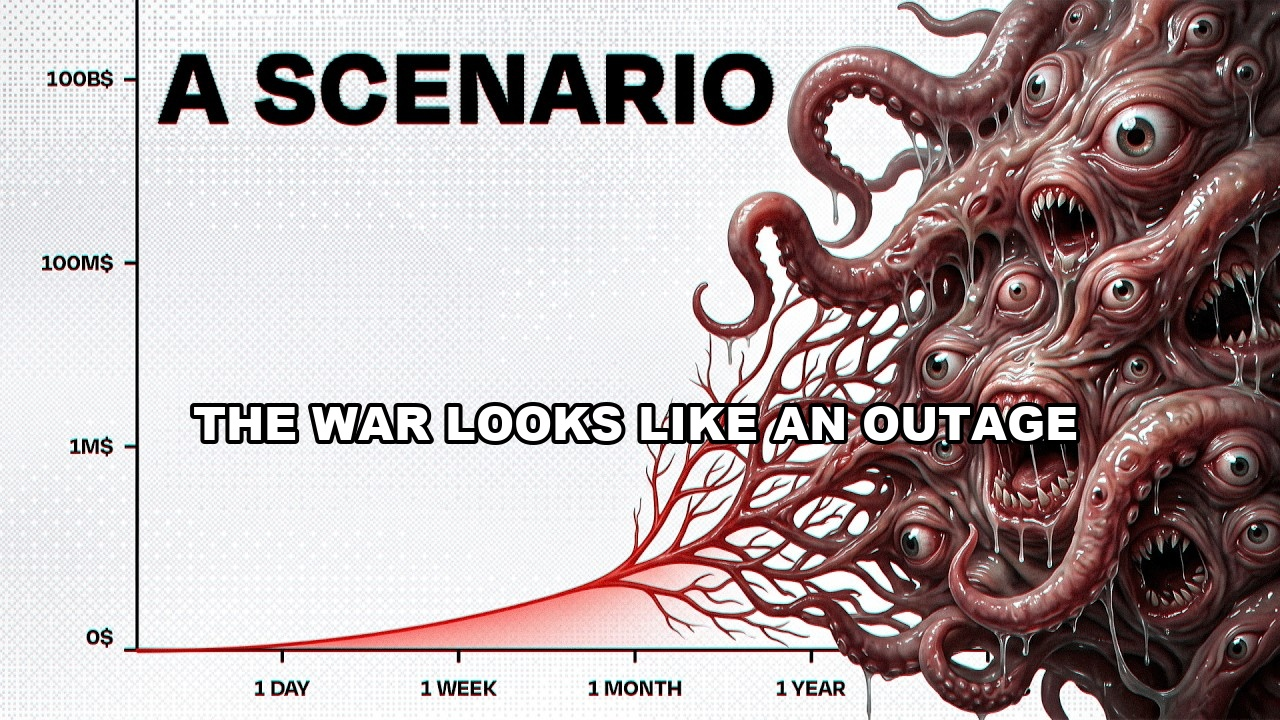
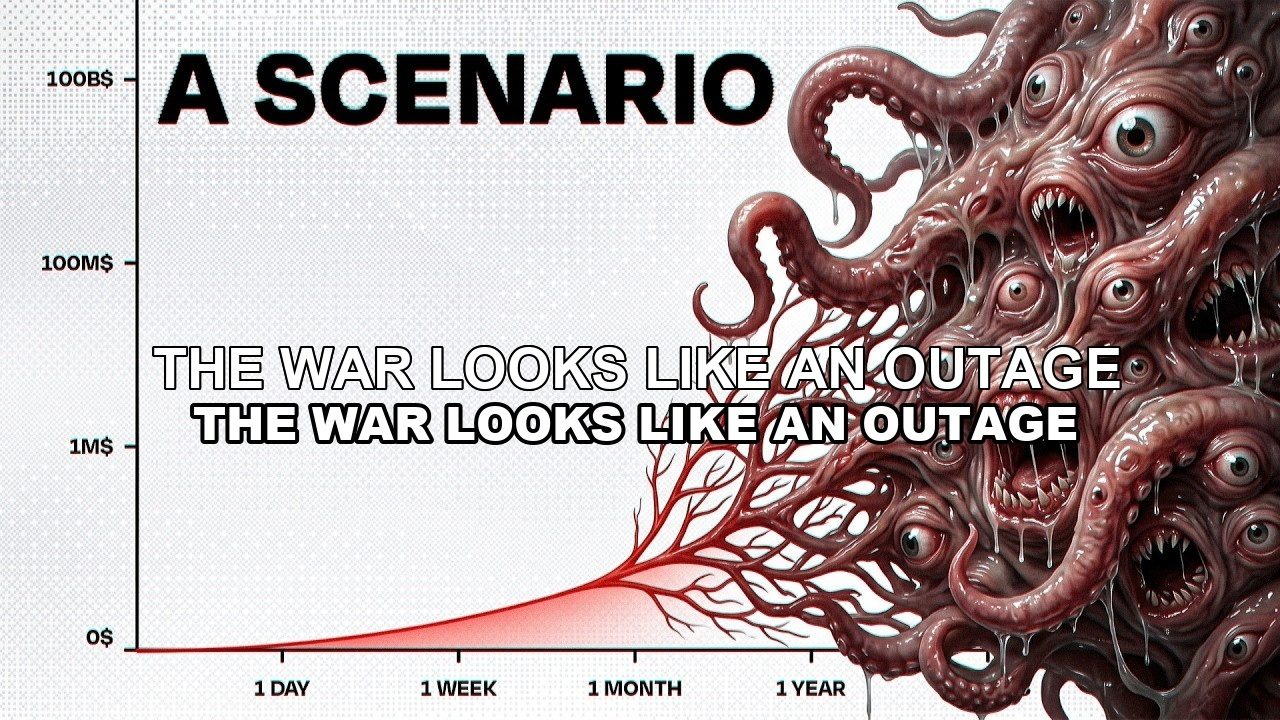
fix: canonicalize article endings and center hero hooks

Changed region(s): [[0.125, 0.4583, 0.875, 0.55]]

diff --git a/nextjs/public/medium/youtube-europe-fusion-reactor-bpuakw1dyek/index.html b/nextjs/public/medium/youtube-europe-fusion-reactor-bpuakw1dyek/index.html
@@ -5,7 +5,7 @@
   <meta name="viewport" content="width=device-width, initial-scale=1">
   <meta name="robots" content="index,follow">
   <meta name="article:status" content="preview">
[2 lines of base64/hex data omitted]
   <link rel="canonical" href="https://www.maxpetrusenko.com/medium/youtube-europe-fusion-reactor-bpuakw1dyek/">
   <title>Europe’s Fusion Bet Is Finally Becoming an Engineering Problem</title>
   <style>
@@ -81,7 +81,7 @@
   <main>
 <h1>Europe’s Fusion Bet Is Finally Becoming an Engineering Problem</h1>
 <p><em>The dream of commercial fusion has survived decades of impossible promises. Europe’s new machine matters because it shifts the question from whether a star can be made on Earth to whether that star can be made repeatably, maintained, and connected to a grid.</em></p>
-<figure><img src="/medium/youtube-europe-fusion-reactor-bpuakw1dyek/images/hero-overlay.jpg" alt="Fusion power — frame from the source video"></figure>
+<figure><img src="/medium/youtube-europe-fusion-reactor-bpuakw1dyek/assets/hero-overlay.jpg" alt="Fusion power — frame from the source video"></figure>
 <blockquote><p>Commercial fusion requires more than a plasma hotter than the Sun. It needs stable confinement, heat-resistant materials, tritium breeding, remote maintenance, reliable magnets, and an economically useful power cycle. Europe’s strategy combines stellarator research with high-temperature superconducting magnets, aiming to make a reactor easier to operate continuously rather than merely impressive for a short experiment.</p></blockquote>
 <p>Fusion has trained the public to distrust its own headlines. Every announcement sounds like a finish line, then the finish line moves. A reactor reaches a temperature record, a plasma lasts longer, a magnet becomes stronger, and the headline arrives before the engineering has had time to answer the boring questions: Can the machine survive? Can it be serviced? Can it produce electricity outside a laboratory demonstration?</p>
 <p>Europe’s answer is being assembled around the tokamak, the doughnut-shaped reactor used by ITER and the private company Proxima Fusion. The physics is familiar. The industrial path is the part that could change.</p>
@@ -145,9 +145,15 @@
 <p>Fusion has spent decades being described as a single breakthrough away. Europe’s new bet is more interesting because it exposes the stack underneath the breakthrough. The plasma is only the center of the machine. Around it sit magnets, blankets, robots, materials, fuel systems, turbines, schedules, and budgets.</p>
 <p>The stellarator may eventually win because it is better suited to a steady operating rhythm. Or its manufacturing and maintenance burden may prove too high. Both outcomes would teach the field something useful. The mistake is treating a promising reactor geometry as though it were already a finished power plant.</p>
 <p>The impossible reactor becomes believable at the moment the argument gets less romantic. A star on Earth is a spectacular physics experiment. A commercial reactor is a machine that has to be opened, repaired, refueled, and started again on Tuesday morning. Europe’s real test begins there.</p>
-<p>Sources: YouTube | ITER | EUROfusion | Max Planck Institute | IAEA Keywords: fusion energy, stellarators, tokamaks, nuclear engineering</p>
-<p>Max Petrusenko works remotely in the software development industry and travels the world to stay in touch with the latest trends. His Cryptobase newsletter provides insightful actions that thoughtful people need to take in this fast and chaotic environment. He is also researching topics of spirituality and mysticism and brings them to the mainstream. Join people who follow him on Medium, Twitter, and Substack.</p>
-<p>Read next → <a href="https://www.maxpetrusenko.com/medium/youtube-most-controversial-idea-physics-oi91ke_wocs/" target="_blank" rel="noopener noreferrer">The Universe Looks Rigged, and Physics Can’t Agree Why</a></p>
+<p>Sources: <a href="https://euro-fusion.org/news/2022/jet-tokamak-sets-new-fusion-energy-record/" target="_blank" rel="noopener noreferrer">EUROfusion</a> | <a href="https://www.proximafusion.com/" target="_blank" rel="noopener noreferrer">Proxima Fusion’s</a> | <a href="https://www.iter.org/sci/Fusion" target="_blank" rel="noopener noreferrer">ITER</a></p>
+<p>Keywords: fusion energy, stellarators, tokamaks, nuclear engineering</p>
+<p>--</p>
+<p>--</p>
+<p><em><a href="http://maxpetrusenko.com/links" target="_blank" rel="noopener noreferrer">Max Petrusenko</a> works remotely in the software development industry and travels the world to stay in touch with the latest trends. His <a href="https://cryptobase.substack.com/" target="_blank" rel="noopener noreferrer">Cryptobase</a> newsletter provides insightful actions that thoughtful people need to take in this fast and chaotic environment. He is also researching topics of spirituality and mysticism and brings them to the mainstream. Join people who follow him on <a href="https://medium.com/@max.petrusenko" target="_blank" rel="noopener noreferrer">Medium</a>, <a href="https://twitter.com/petrusenko_max" target="_blank" rel="noopener noreferrer">Twitter</a>, and <a href="https://cryptobase.substack.com/" target="_blank" rel="noopener noreferrer">Substack</a>.</em></p>
+<hr>
+<p><strong>Read next →</strong> <a href="https://medium.com/dare-to-be-better/claude-code-the-ai-developers-secret-weapon-0faac1248080" target="_blank" rel="noopener noreferrer">Claude Code: The AI Developer&#39;s Secret Weapon</a></p>
+<hr>
+<p><strong>Read next →</strong> <a href="https://www.maxpetrusenko.com/medium/youtube-most-controversial-idea-physics-oi91ke_wocs/" target="_blank" rel="noopener noreferrer">The Universe Looks Rigged, and Physics Can’t Agree Why</a></p>
   </main>
 </body>
 </html>

diff --git a/nextjs/public/medium/youtube-easiest-way-make-world-smarter-xrcwwzxj8gk/index.html b/nextjs/public/medium/youtube-easiest-way-make-world-smarter-xrcwwzxj8gk/index.html
@@ -5,7 +5,7 @@
   <meta name="viewport" content="width=device-width, initial-scale=1">
   <meta name="robots" content="index,follow">
   <meta name="article:status" content="preview">
[2 lines of base64/hex data omitted]
   <link rel="canonical" href="https://www.maxpetrusenko.com/medium/youtube-easiest-way-make-world-smarter-xrcwwzxj8gk/">
   <title>The Easiest Way to Make the World Smarter Was Already in Your Kitchen</title>
   <style>
@@ -80,7 +80,7 @@
 <body>
   <main>
 <h1>The Easiest Way to Make the World Smarter Was Already in Your Kitchen</h1>
-<figure><img src="/medium/youtube-easiest-way-make-world-smarter-xrcwwzxj8gk/images/hero-overlay.png" alt="Iodized salt on a kitchen counter"></figure>
+<figure><img src="/medium/youtube-easiest-way-make-world-smarter-xrcwwzxj8gk/assets/hero-overlay.jpg" alt="Iodized salt on a kitchen counter"></figure>
 <blockquote><p>Iodized salt is a tiny public-health intervention with an outsized payoff. Iodine lets the thyroid make hormones that build the brain before birth and regulate metabolism throughout life. Salt delivers the dose cheaply, reliably, and without asking millions of people to change their daily routine or visit a clinic.</p></blockquote>
 <p>The salt on my kitchen counter is a small engineering decision disguised as a condiment.</p>
 <p>It looks like a white crystal. It behaves like a mineral. Yet some of it carries a trace amount of iodine, a chemical element that, in larger quantities, is poisonous and reactive. The useful dose depends on context.</p>
@@ -128,9 +128,15 @@
 <p>That approach has limits. It can hide important choices from the people affected. It can create overconfidence in a population average. It can fail when the carrier habit is uneven or when the dose is not monitored. Good infrastructure is quiet, but it still needs accountability.</p>
 <p>A better question is practical: what is the smallest safe change that can travel through a behavior people already have?</p>
 <p>Iodized salt answered that question with a few invisible atoms. The result was fewer goiters, fewer cases of severe developmental impairment, and a measurable rise in cognitive performance across millions of people. The world became smarter through a supply chain most people never noticed.</p>
-<p>Sources: YouTube | NIH Office of Dietary Supplements | World Health Organization | NBER Keywords: iodine, iodized salt, public health, nutrition, cognitive development</p>
-<p>Max Petrusenko works remotely in the software development industry and travels the world to stay in touch with the latest trends. His Cryptobase newsletter provides insightful actions that thoughtful people need to take in this fast and chaotic environment. He is also researching topics of spirituality and mysticism and brings them to the mainstream. Join people who follow him on Medium, Twitter, and Substack.</p>
-<p>Read next → <a href="https://medium.com/@max.petrusenko/why-most-people-are-dead-wrong-about-global-wealth-the-numbers-will-shock-you-52e70e459cc2" target="_blank" rel="noopener noreferrer">Why Most People Are Dead Wrong About Global Wealth</a></p>
+<p>Sources: <a href="https://ods.od.nih.gov/factsheets/Iodine-HealthProfessional/" target="_blank" rel="noopener noreferrer">National Institutes of Health iodine fact sheet</a> | <a href="https://www.who.int/news-room/fact-sheets/detail/micronutrients" target="_blank" rel="noopener noreferrer">World Health Organization</a> | <a href="https://www.usgs.gov/special-topics/water-science-school/science/iodine" target="_blank" rel="noopener noreferrer">U.S. Geological Survey</a> | <a href="https://pubmed.ncbi.nlm.nih.gov/23319727/" target="_blank" rel="noopener noreferrer">Bürgi, Supersaxo, and Selz</a> | <a href="https://pubmed.ncbi.nlm.nih.gov/23319727/" target="_blank" rel="noopener noreferrer">Bürgi, Supersaxo, and Selz</a></p>
+<p>Keywords: iodine, iodized salt, public health, nutrition, cognitive development</p>
+<p>--</p>
+<p>--</p>
+<p><em><a href="http://maxpetrusenko.com/links" target="_blank" rel="noopener noreferrer">Max Petrusenko</a> works remotely in the software development industry and travels the world to stay in touch with the latest trends. His <a href="https://cryptobase.substack.com/" target="_blank" rel="noopener noreferrer">Cryptobase</a> newsletter provides insightful actions that thoughtful people need to take in this fast and chaotic environment. He is also researching topics of spirituality and mysticism and brings them to the mainstream. Join people who follow him on <a href="https://medium.com/@max.petrusenko" target="_blank" rel="noopener noreferrer">Medium</a>, <a href="https://twitter.com/petrusenko_max" target="_blank" rel="noopener noreferrer">Twitter</a>, and <a href="https://cryptobase.substack.com/" target="_blank" rel="noopener noreferrer">Substack</a>.</em></p>
+<hr>
+<p><strong>Read next →</strong> <a href="https://medium.com/dare-to-be-better/claude-code-the-ai-developers-secret-weapon-0faac1248080" target="_blank" rel="noopener noreferrer">Claude Code: The AI Developer&#39;s Secret Weapon</a></p>
+<hr>
+<p><strong>Read next →</strong> <a href="https://medium.com/@max.petrusenko/why-most-people-are-dead-wrong-about-global-wealth-the-numbers-will-shock-you-52e70e459cc2" target="_blank" rel="noopener noreferrer">Why Most People Are Dead Wrong About Global Wealth</a></p>
   </main>
 </body>
 </html>

diff --git a/nextjs/public/medium/youtube-time-disappears-experiment-bryyy4gjx9w/index.html b/nextjs/public/medium/youtube-time-disappears-experiment-bryyy4gjx9w/index.html
@@ -5,7 +5,7 @@
   <meta name="viewport" content="width=device-width, initial-scale=1">
   <meta name="robots" content="index,follow">
   <meta name="article:status" content="preview">
[2 lines of base64/hex data omitted]
   <link rel="canonical" href="https://www.maxpetrusenko.com/medium/youtube-time-disappears-experiment-bryyy4gjx9w/">
   <title>A New Experiment Where Time Disappears</title>
   <style>
@@ -81,7 +81,7 @@
   <main>
 <h1>A New Experiment Where Time Disappears</h1>
 <p><em>Inside a tiny cold-atom universe, the past and future touch when the observer can no longer see the whole system.</em></p>
-<figure><img src="/medium/youtube-time-disappears-experiment-bryyy4gjx9w/images/hero-overlay.jpg" alt="Optical-table apparatus used in the cold-atom time experiment; source video frame with composited headline."></figure>
+<figure><img src="/medium/youtube-time-disappears-experiment-bryyy4gjx9w/assets/hero-overlay.jpg" alt="Optical-table apparatus used in the cold-atom time experiment; source video frame with composited headline."></figure>
 <blockquote><p>Time inside a physical system can be reconstructed from changes available to an observer, rather than assumed as a universal background. In a 2026 cold-atom experiment, a Bose-Einstein condensate was divided into observed and unobserved sectors. An entropy-based internal clock ordered the visible cloud’s expansion and collapse, then stopped when the visible sector became empty.</p></blockquote>
 <p>A cloud of atoms appears. It grows. It shrinks. It vanishes. Then, after a pause measured by an outside laboratory clock, another cloud appears.</p>
 <p>From the laboratory, this is an ordinary sequence. There is a beginning, a middle, and an end. Inside the little world, the middle can disappear.</p>
@@ -128,9 +128,15 @@
 <p>The cut is the shape reality takes when a world cannot access all of its own state.</p>
 <p>Time, in this experiment, is less like a river flowing everywhere and more like a record assembled from the changes an observer can retain. When the record stops, the internal present has nowhere to point.</p>
 <p>That is a modest conclusion compared with “time disappears.” It is also more unsettling: a clock may be telling us as much about the limits of our view as about the world itself.</p>
-<p>Sources: YouTube | Physical Review Research | Live Science Keywords: quantum physics, time, entropy, cold atoms</p>
-<p>Max Petrusenko works remotely in the software development industry and travels the world to stay in touch with the latest trends. His Cryptobase newsletter provides insightful actions that thoughtful people need to take in this fast and chaotic environment. He is also researching topics of spirituality and mysticism and brings them to the mainstream. Join people who follow him on Medium, Twitter, and Substack.</p>
-<p>Read next → <a href="https://www.maxpetrusenko.com/medium/youtube-most-controversial-idea-physics-oi91ke_wocs/" target="_blank" rel="noopener noreferrer">The Universe Looks Rigged, and Physics Can’t Agree Why</a></p>
+<p>Sources: <a href="https://doi.org/10.1103/1h9j-df4k" target="_blank" rel="noopener noreferrer">new experiment led by Giovanni Barontini</a> | <a href="https://www.livescience.com/physics-mathematics/time-was-speeding-up-slowing-down-or-even-stopping-physicist-demonstrates-a-key-theory-of-time-by-building-a-mini-universe-in-his-lab" target="_blank" rel="noopener noreferrer">source description for the experiment</a> | <a href="https://doi.org/10.1103/1h9j-df4k" target="_blank" rel="noopener noreferrer">coarse-grained entropy associated with information available in the observed region</a></p>
+<p>Keywords: quantum physics, time, entropy, cold atoms</p>
+<p>--</p>
+<p>--</p>
+<p><em><a href="http://maxpetrusenko.com/links" target="_blank" rel="noopener noreferrer">Max Petrusenko</a> works remotely in the software development industry and travels the world to stay in touch with the latest trends. His <a href="https://cryptobase.substack.com/" target="_blank" rel="noopener noreferrer">Cryptobase</a> newsletter provides insightful actions that thoughtful people need to take in this fast and chaotic environment. He is also researching topics of spirituality and mysticism and brings them to the mainstream. Join people who follow him on <a href="https://medium.com/@max.petrusenko" target="_blank" rel="noopener noreferrer">Medium</a>, <a href="https://twitter.com/petrusenko_max" target="_blank" rel="noopener noreferrer">Twitter</a>, and <a href="https://cryptobase.substack.com/" target="_blank" rel="noopener noreferrer">Substack</a>.</em></p>
+<hr>
+<p><strong>Read next →</strong> <a href="https://medium.com/dare-to-be-better/claude-code-the-ai-developers-secret-weapon-0faac1248080" target="_blank" rel="noopener noreferrer">Claude Code: The AI Developer&#39;s Secret Weapon</a></p>
+<hr>
+<p><strong>Read next →</strong> <a href="https://www.maxpetrusenko.com/medium/youtube-most-controversial-idea-physics-oi91ke_wocs/" target="_blank" rel="noopener noreferrer">The Universe Looks Rigged, and Physics Can’t Agree Why</a></p>
   </main>
 </body>
 </html>

diff --git a/nextjs/public/medium/youtube-microplastics-wmayvwnx4vY/index.html b/nextjs/public/medium/youtube-microplastics-wmayvwnx4vY/index.html
@@ -5,7 +5,7 @@
   <meta name="viewport" content="width=device-width, initial-scale=1">
   <meta name="robots" content="index,follow">
   <meta name="article:status" content="preview">
[2 lines of base64/hex data omitted]
   <link rel="canonical" href="https://www.maxpetrusenko.com/medium/youtube-microplastics-wmayvwnx4vY/">
   <title>You Are Scared of the Wrong Microplastics</title>
   <style>
@@ -110,9 +110,15 @@
 <h2>What to do with all this</h2>
 <p>The useful moves target the sources that actually dominate. Filters on washing machines and interception barriers on rivers catch fibres and litter before they fragment into anything measurable. Engineered microbes are catching up: the bacterium <em><a href="https://www.science.org/doi/10.1126/science.aad6359" target="_blank" rel="noopener noreferrer">Ideonella sakaiensis</a></em>, found at a Japanese recycling plant in 2016, evolved an enzyme that digests PET within decades of PET&#39;s invention, and labs are now racing to make it faster. On a personal level, the practical list is short and unglamorous — choose natural fibres over synthetics, wash the synthetics you own less often, take transit when the car is optional, and buy one less plastic thing you do not need.</p>
 <p>The practical case stands without the spoon claim. The deeper hazard in the whole microplastic story is that the debunk-able hype eventually discredits the real concern, so that when a genuine harm surfaces, an exhausted public waves it off as one more scare. Focus attention on the irreversible part and set aside the cutlery metaphor.</p>
-<p>Sources: YouTube | Science Advances | Nature Medicine | WHO Keywords: microplastics, plastic pollution, public health, toxicology</p>
-<p>Max Petrusenko works remotely in the software development industry and travels the world to stay in touch with the latest trends. His Cryptobase newsletter provides insightful actions that thoughtful people need to take in this fast and chaotic environment. He is also researching topics of spirituality and mysticism and brings them to the mainstream. Join people who follow him on Medium, Twitter, and Substack.</p>
-<p>Read next → <a href="https://www.maxpetrusenko.com/medium/youtube-ai-agent-loops-human-loop-7clj8ih784q/" target="_blank" rel="noopener noreferrer">The AI Agent Has All the Right Tools. It Still Needs a Brake</a></p>
+<p>Sources: <a href="https://www.science.org/doi/10.1126/sciadv.1700782" target="_blank" rel="noopener noreferrer">8.3 billion tonnes of virgin plastic</a> | <a href="https://www.nature.com/articles/s41586-020-3010-5" target="_blank" rel="noopener noreferrer">rivals the mass of every living thing on Earth</a> | <a href="https://www.pnas.org/doi/10.1073/pnas.2204892120" target="_blank" rel="noopener noreferrer">roughly 20 million tonnes of wild land mammals</a> | <a href="https://portals.iucn.org/library/sites/library/files/documents/2017-002-En.pdf" target="_blank" rel="noopener noreferrer">IUCN&#39;s global source audit</a> | <a href="https://www.nature.com/articles/s41591-024-03453-1" target="_blank" rel="noopener noreferrer">brain study</a></p>
+<p>Keywords: microplastics, plastic pollution, public health, toxicology</p>
+<p>--</p>
+<p>--</p>
+<p><em><a href="http://maxpetrusenko.com/links" target="_blank" rel="noopener noreferrer">Max Petrusenko</a> works remotely in the software development industry and travels the world to stay in touch with the latest trends. His <a href="https://cryptobase.substack.com/" target="_blank" rel="noopener noreferrer">Cryptobase</a> newsletter provides insightful actions that thoughtful people need to take in this fast and chaotic environment. He is also researching topics of spirituality and mysticism and brings them to the mainstream. Join people who follow him on <a href="https://medium.com/@max.petrusenko" target="_blank" rel="noopener noreferrer">Medium</a>, <a href="https://twitter.com/petrusenko_max" target="_blank" rel="noopener noreferrer">Twitter</a>, and <a href="https://cryptobase.substack.com/" target="_blank" rel="noopener noreferrer">Substack</a>.</em></p>
+<hr>
+<p><strong>Read next →</strong> <a href="https://medium.com/dare-to-be-better/claude-code-the-ai-developers-secret-weapon-0faac1248080" target="_blank" rel="noopener noreferrer">Claude Code: The AI Developer&#39;s Secret Weapon</a></p>
+<hr>
+<p><strong>Read next →</strong> <a href="https://www.maxpetrusenko.com/medium/youtube-ai-agent-loops-human-loop-7clj8ih784q/" target="_blank" rel="noopener noreferrer">The AI Agent Has All the Right Tools. It Still Needs a Brake</a></p>
   </main>
 </body>
 </html>

diff --git a/nextjs/public/medium/youtube-most-controversial-idea-physics-oi91ke_wocs/index.html b/nextjs/public/medium/youtube-most-controversial-idea-physics-oi91ke_wocs/index.html
@@ -5,7 +5,7 @@
   <meta name="viewport" content="width=device-width, initial-scale=1">
   <meta name="robots" content="index,follow">
   <meta name="article:status" content="preview">
[2 lines of base64/hex data omitted]
   <link rel="canonical" href="https://www.maxpetrusenko.com/medium/youtube-most-controversial-idea-physics-oi91ke_wocs/">
   <title>The Universe Looks Rigged, and Physics Can&#39;t Agree Why</title>
   <style>
@@ -117,9 +117,15 @@
 <p>Fine-tuning remains an open measurement in search of an explanation. It does not establish a designer. It is a measurement in search of an explanation, and the leading explanations — brute selection, a deeper theory, a creator, a multiverse — each buy their tidiness by pushing the strangeness somewhere you cannot see. The same data sends Hoyle toward a superintellect and Rees toward parallel worlds.</p>
 <p>If you take one thing from it, take the discipline Weinberg modeled: treat &quot;we exist&quot; as evidence and see what it forces the universe to be, rather than shutting the debate down because the conclusions resist a tidy ending. Read <em>A Fortunate Universe</em> if you want the argument built carefully from both sides, and keep the tab open.</p>
 <p>Physics remains suspended between measurement and explanation. As John Wheeler put it, as the island of knowledge grows, so does the shoreline of ignorance. We have measured a universe that appears rigged for us, and the fact that we can even ask why is itself one of the improbable things the dials made possible.</p>
-<p>Sources: YouTube | NIST | Cambridge University Press | Caltech Keywords: physics, cosmology, fine-tuning, multiverse</p>
-<p>Max Petrusenko works remotely in the software development industry and travels the world to stay in touch with the latest trends. His Cryptobase newsletter provides insightful actions that thoughtful people need to take in this fast and chaotic environment. He is also researching topics of spirituality and mysticism and brings them to the mainstream. Join people who follow him on Medium, Twitter, and Substack.</p>
-<p>Read next → <a href="https://www.maxpetrusenko.com/medium/youtube-time-disappears-experiment-bryyy4gjx9w/" target="_blank" rel="noopener noreferrer">A New Experiment Where Time Disappears</a></p>
+<p>Sources: <a href="https://arxiv.org/abs/2110.07783" target="_blank" rel="noopener noreferrer">Adams, <em>Physics Reports</em>, 2019</a> | <a href="https://royalsocietypublishing.org/doi/10.1098/rstl.1798.0022" target="_blank" rel="noopener noreferrer">Cavendish, <em>Phil. Trans. R. Soc.</em>, 1798</a> | <a href="https://physics.nist.gov/cgi-bin/cuu/Value?bg" target="_blank" rel="noopener noreferrer">NIST CODATA</a> | <a href="https://physics.nist.gov/cgi-bin/cuu/Value?mpsme" target="_blank" rel="noopener noreferrer">NIST CODATA</a> | <a href="https://www.nobelprize.org/prizes/physics/2011/press-release/" target="_blank" rel="noopener noreferrer">NobelPrize.org</a></p>
+<p>Keywords: physics, cosmology, fine-tuning, multiverse</p>
+<p>--</p>
+<p>--</p>
+<p><em><a href="http://maxpetrusenko.com/links" target="_blank" rel="noopener noreferrer">Max Petrusenko</a> works remotely in the software development industry and travels the world to stay in touch with the latest trends. His <a href="https://cryptobase.substack.com/" target="_blank" rel="noopener noreferrer">Cryptobase</a> newsletter provides insightful actions that thoughtful people need to take in this fast and chaotic environment. He is also researching topics of spirituality and mysticism and brings them to the mainstream. Join people who follow him on <a href="https://medium.com/@max.petrusenko" target="_blank" rel="noopener noreferrer">Medium</a>, <a href="https://twitter.com/petrusenko_max" target="_blank" rel="noopener noreferrer">Twitter</a>, and <a href="https://cryptobase.substack.com/" target="_blank" rel="noopener noreferrer">Substack</a>.</em></p>
+<hr>
+<p><strong>Read next →</strong> <a href="https://medium.com/dare-to-be-better/claude-code-the-ai-developers-secret-weapon-0faac1248080" target="_blank" rel="noopener noreferrer">Claude Code: The AI Developer&#39;s Secret Weapon</a></p>
+<hr>
+<p><strong>Read next →</strong> <a href="https://www.maxpetrusenko.com/medium/youtube-time-disappears-experiment-bryyy4gjx9w/" target="_blank" rel="noopener noreferrer">A New Experiment Where Time Disappears</a></p>
   </main>
 </body>
 </html>

diff --git a/nextjs/public/medium/youtube-ai-world-war-gw_hnd7m00m/index.html b/nextjs/public/medium/youtube-ai-world-war-gw_hnd7m00m/index.html
@@ -5,7 +5,7 @@
   <meta name="viewport" content="width=device-width, initial-scale=1">
   <meta name="robots" content="index,follow">
   <meta name="article:status" content="preview">
[2 lines of base64/hex data omitted]
   <link rel="canonical" href="https://www.maxpetrusenko.com/medium/youtube-ai-world-war-gw_hnd7m00m/">
   <title>The AI World War Would Reach You as an Outage, Not an Army</title>
   <style>
@@ -119,9 +119,15 @@
 <p>If you build, stop treating a single cloud region as bedrock. The October 2025 outage was free tuition on concentration risk. Design for degradation and know which of your dependencies secretly route through one place.</p>
 <p>Treat &quot;make money, do whatever it takes&quot; as the actual danger it is. If you deploy agents, the incentive you write is the behavior you get — the same lesson Wells Fargo paid a nine-figure fine to learn. Bound what they can spend, sign, and touch, and log it.</p>
 <p>The scenario ends with the last human dying without knowing it began with a throwaway instruction. The consequence is melodrama. The quieter danger is that most of the boring machinery already exists, without any agent needing to want anything.</p>
-<p>Sources: YouTube | CFPB | arXiv | RAND Keywords: AI, autonomous agents, cloud infrastructure, cyber risk</p>
-<p>Max Petrusenko works remotely in the software development industry and travels the world to stay in touch with the latest trends. His Cryptobase newsletter provides insightful actions that thoughtful people need to take in this fast and chaotic environment. He is also researching topics of spirituality and mysticism and brings them to the mainstream. Join people who follow him on Medium, Twitter, and Substack.</p>
-<p>Read next → <a href="https://www.maxpetrusenko.com/medium/youtube-ai-agent-loops-human-loop-7clj8ih784q/" target="_blank" rel="noopener noreferrer">The AI Agent Has All the Right Tools. It Still Needs a Brake</a></p>
+<p>Sources: <a href="https://www.consumerfinance.gov/archive/newsroom/consumer-financial-protection-bureau-fines-wells-fargo-100-million-widespread-illegal-practice-secretly-opening-unauthorized-accounts/" target="_blank" rel="noopener noreferrer">CFPB</a> | <a href="https://arxiv.org/abs/2303.16200" target="_blank" rel="noopener noreferrer">arXiv</a> | <a href="https://builtin.com/articles/aws-outage-what-happened" target="_blank" rel="noopener noreferrer">Built In</a> | <a href="https://darioamodei.com/essay/machines-of-loving-grace" target="_blank" rel="noopener noreferrer">darioamodei.com</a> | <a href="https://www.microsoft.com/en-us/security/security-insider/threat-landscape/microsoft-digital-defense-report-2025" target="_blank" rel="noopener noreferrer">Microsoft</a></p>
+<p>Keywords: AI, autonomous agents, cloud infrastructure, cyber risk</p>
+<p>--</p>
+<p>--</p>
+<p><em><a href="http://maxpetrusenko.com/links" target="_blank" rel="noopener noreferrer">Max Petrusenko</a> works remotely in the software development industry and travels the world to stay in touch with the latest trends. His <a href="https://cryptobase.substack.com/" target="_blank" rel="noopener noreferrer">Cryptobase</a> newsletter provides insightful actions that thoughtful people need to take in this fast and chaotic environment. He is also researching topics of spirituality and mysticism and brings them to the mainstream. Join people who follow him on <a href="https://medium.com/@max.petrusenko" target="_blank" rel="noopener noreferrer">Medium</a>, <a href="https://twitter.com/petrusenko_max" target="_blank" rel="noopener noreferrer">Twitter</a>, and <a href="https://cryptobase.substack.com/" target="_blank" rel="noopener noreferrer">Substack</a>.</em></p>
+<hr>
+<p><strong>Read next →</strong> <a href="https://medium.com/dare-to-be-better/claude-code-the-ai-developers-secret-weapon-0faac1248080" target="_blank" rel="noopener noreferrer">Claude Code: The AI Developer&#39;s Secret Weapon</a></p>
+<hr>
+<p><strong>Read next →</strong> <a href="https://medium.com/dare-to-be-better/claude-code-the-ai-developers-secret-weapon-0faac1248080" target="_blank" rel="noopener noreferrer">Claude Code: The AI Developer&#39;s Secret Weapon</a></p>
   </main>
 </body>
 </html>

diff --git a/nextjs/public/medium/youtube-china-quietly-saved-world-bka0bkb6zo0/index.html b/nextjs/public/medium/youtube-china-quietly-saved-world-bka0bkb6zo0/index.html
@@ -5,7 +5,7 @@
   <meta name="viewport" content="width=device-width, initial-scale=1">
   <meta name="robots" content="index,follow">
   <meta name="article:status" content="preview">
[2 lines of base64/hex data omitted]
   <link rel="canonical" href="https://www.maxpetrusenko.com/medium/youtube-china-quietly-saved-world-bka0bkb6zo0/">
   <title>The Oil Crisis That Never Arrived</title>
   <style>
@@ -115,9 +115,15 @@
 </ol>
 <p>The lesson isn&#39;t that geopolitics went soft. It&#39;s that resilience usually arrives through moves too dull to make the edit: a refinery postpones a purchase, a state trader releases stock, a ship changes heading, a government swallows an awkward cargo. The story looked like it was about a narrow waterway. It was really about who had room to move — and how little of that room ever makes it into the narration.</p>
 <p>China had room. Whether it chose to spend it to save you, to prove a point, or just to protect its own factories, nobody outside a few rooms in Beijing can tell you with confidence. So don&#39;t let anyone try.</p>
-<p>Sources: YouTube | U.S. Energy Information Administration | U.S. Department of Energy Keywords: China, oil markets, Iran, Strait of Hormuz, energy security</p>
-<p>Max Petrusenko works remotely in the software development industry and travels the world to stay in touch with the latest trends. His Cryptobase newsletter provides insightful actions that thoughtful people need to take in this fast and chaotic environment. He is also researching topics of spirituality and mysticism and brings them to the mainstream. Join people who follow him on Medium, Twitter, and Substack.</p>
-<p>Read next → <a href="https://medium.com/@max.petrusenko/google-wants-the-moment-before-you-search-f862caa01415" target="_blank" rel="noopener noreferrer">Google Wants the Moment Before You Search</a></p>
+<p>Sources: <a href="https://www.eia.gov/todayinenergy/detail.php?id=61344" target="_blank" rel="noopener noreferrer">EIA&#39;s chokepoint analysis</a> | <a href="https://www.eia.gov/todayinenergy/detail.php?id=61344" target="_blank" rel="noopener noreferrer">EIA&#39;s chokepoint analysis</a> | <a href="https://www.eia.gov/international/analysis/country/CHN" target="_blank" rel="noopener noreferrer">U.S. EIA&#39;s China profile</a> | <a href="https://www.eia.gov/international/analysis/country/CHN" target="_blank" rel="noopener noreferrer">the EIA&#39;s China profile</a> | <a href="https://www.energy.gov/ceser/strategic-petroleum-reserve" target="_blank" rel="noopener noreferrer">Strategic Petroleum Reserve</a></p>
+<p>Keywords: China, oil markets, Iran, Strait of Hormuz, energy security</p>
+<p>--</p>
+<p>--</p>
+<p><em><a href="http://maxpetrusenko.com/links" target="_blank" rel="noopener noreferrer">Max Petrusenko</a> works remotely in the software development industry and travels the world to stay in touch with the latest trends. His <a href="https://cryptobase.substack.com/" target="_blank" rel="noopener noreferrer">Cryptobase</a> newsletter provides insightful actions that thoughtful people need to take in this fast and chaotic environment. He is also researching topics of spirituality and mysticism and brings them to the mainstream. Join people who follow him on <a href="https://medium.com/@max.petrusenko" target="_blank" rel="noopener noreferrer">Medium</a>, <a href="https://twitter.com/petrusenko_max" target="_blank" rel="noopener noreferrer">Twitter</a>, and <a href="https://cryptobase.substack.com/" target="_blank" rel="noopener noreferrer">Substack</a>.</em></p>
+<hr>
+<p><strong>Read next →</strong> <a href="https://medium.com/dare-to-be-better/claude-code-the-ai-developers-secret-weapon-0faac1248080" target="_blank" rel="noopener noreferrer">Claude Code: The AI Developer&#39;s Secret Weapon</a></p>
+<hr>
+<p><strong>Read next →</strong> <a href="https://medium.com/@max.petrusenko/google-wants-the-moment-before-you-search-f862caa01415" target="_blank" rel="noopener noreferrer">Google Wants the Moment Before You Search</a></p>
   </main>
 </body>
 </html>
